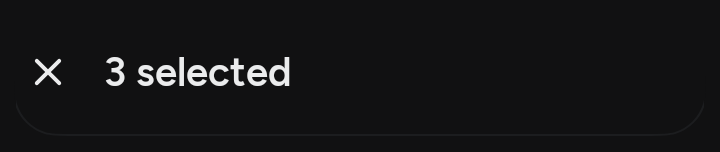
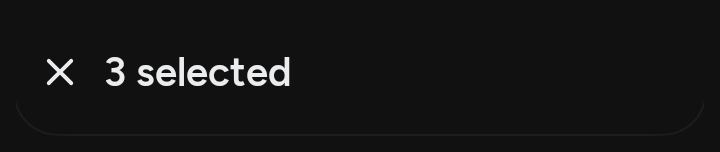
fix(panel): align header buttons (#200)
* fix(panel): line up the close button with the page inset

- Shift each navigation glyph so its ink starts where the chevron's does.
- Keep each icon's symbol, size, and ink start on PanelNavigationIcon.

* feat(panel): add a text action that ends at the page inset

- Add PanelTextAction for trailing panel actions such as Select all.
- Share the text button between it and SheetHeaderAction.

* feat(panel): let the control panel hold a minimum height

- Keep the panel at least minHeight tall until the list collapses it.
- Lets a page fill its pills' room while they are away.

* docs(changelog): note the panel alignment changes

- Record PanelTextAction, ContextPanel minHeight, and the icon offset.

* test(panel): record the moved close button

- Update the context_panel_close baseline for the ✕ offset.

* refactor(panel): move minHeight into PanelMotion

- Keep ContextPanel within the detekt parameter limit.
- Shorten the text action inset's doc line.

* refactor(panel): keep PanelMotion's content lambda last

- Put minHeight before expanded so callers keep the trailing lambda.

* revert(panel): drop the panel's minimum height

- Selection keeps its pill row instead, so nothing needs minHeight.

Changed region(s): [[0.0306, 0.3684, 0.1222, 0.5789]]

diff --git a/designsystem/src/commonMain/kotlin/com/otusfoss/core/designsystem/shared/overlays/components/SheetFrame.kt b/designsystem/src/commonMain/kotlin/com/otusfoss/core/designsystem/shared/overlays/components/SheetFrame.kt
@@ -1,26 +1,21 @@
 package com.otusfoss.core.designsystem.shared.overlays.components
 
 import androidx.compose.foundation.background
-import androidx.compose.foundation.clickable
-import androidx.compose.foundation.interaction.MutableInteractionSource
 import androidx.compose.foundation.layout.Arrangement
 import androidx.compose.foundation.layout.Box
 import androidx.compose.foundation.layout.ColumnScope
 import androidx.compose.foundation.layout.Row
 import androidx.compose.foundation.layout.fillMaxWidth
 import androidx.compose.foundation.layout.height
-import androidx.compose.foundation.layout.heightIn
 import androidx.compose.foundation.layout.padding
 import androidx.compose.foundation.layout.size
 import androidx.compose.foundation.shape.CircleShape
 import androidx.compose.material.Text
 import androidx.compose.runtime.Composable
-import androidx.compose.runtime.remember
 import androidx.compose.ui.Alignment
 import androidx.compose.ui.Modifier
 import androidx.compose.ui.draw.clip
 import androidx.compose.ui.graphics.Color
-import androidx.compose.ui.semantics.Role
 import androidx.compose.ui.semantics.heading
 import androidx.compose.ui.semantics.semantics
 import androidx.compose.ui.text.font.FontWeight
@@ -30,12 +25,9 @@ import com.otusfoss.core.designsystem.shared.controls.elements.ActionButton
 import com.otusfoss.core.designsystem.shared.controls.elements.IconButton
 import com.otusfoss.core.designsystem.shared.controls.elements.IconButtonLook
 import com.otusfoss.core.designsystem.shared.controls.elements.Symbol
+import com.otusfoss.core.designsystem.shared.controls.elements.TextAction
 import com.otusfoss.core.designsystem.shared.controls.elements.UiAction
-import com.otusfoss.core.designsystem.shared.controls.elements.controlPressFeedback
-import com.otusfoss.core.designsystem.shared.overlays.elements.sheetInset
 import com.otusfoss.core.designsystem.theme.colors.OtusColors
-import com.otusfoss.core.designsystem.theme.shapes.SmoothCornerShape
-import com.otusfoss.core.designsystem.theme.tokens.core.Sizes
 import com.otusfoss.core.designsystem.theme.tokens.core.Spacing
 import com.otusfoss.core.designsystem.theme.tokens.overlays.ChoiceSheetTokens
 import com.otusfoss.core.designsystem.theme.tokens.overlays.SheetTokens
@@ -136,15 +128,7 @@ public fun SheetHeaderAction(
     color: Color = OtusColors.text1,
     enabled: Boolean = true,
 ) {
-    val interactions = remember { MutableInteractionSource() }
-    Box(
-        modifier
-            .heightIn(min = Sizes.touchTarget)
-            .clickable(interactions, indication = null, enabled = enabled, role = Role.Button, onClick = onClick)
-            .controlPressFeedback(interactions, SmoothCornerShape(SheetTokens.rowRadius))
-            .sheetInset(),
-        contentAlignment = Alignment.Center,
-    ) { Text(label, color = if (enabled) color else OtusColors.text3, fontWeight = FontWeight.SemiBold) }
+    TextAction(label, onClick, SheetTokens.inset, modifier, color, enabled)
 }
 
 @Composable

diff --git a/designsystem/src/commonMain/kotlin/com/otusfoss/core/designsystem/shared/panels/elements/PanelNavigation.kt b/designsystem/src/commonMain/kotlin/com/otusfoss/core/designsystem/shared/panels/elements/PanelNavigation.kt
@@ -3,6 +3,7 @@ package com.otusfoss.core.designsystem.shared.panels.elements
 import androidx.compose.foundation.clickable
 import androidx.compose.foundation.interaction.MutableInteractionSource
 import androidx.compose.foundation.layout.Box
+import androidx.compose.foundation.layout.padding
 import androidx.compose.foundation.layout.size
 import androidx.compose.runtime.Composable
 import androidx.compose.runtime.remember
@@ -11,18 +12,14 @@ import androidx.compose.ui.Modifier
 import androidx.compose.ui.semantics.Role
 import androidx.compose.ui.semantics.contentDescription
 import androidx.compose.ui.semantics.semantics
-import com.otusfoss.core.designsystem.resources.Res
-import com.otusfoss.core.designsystem.resources.symbol_chevron_left
-import com.otusfoss.core.designsystem.resources.symbol_close
 import com.otusfoss.core.designsystem.shared.controls.elements.Symbol
 import com.otusfoss.core.designsystem.shared.controls.elements.controlPressFeedback
 import com.otusfoss.core.designsystem.theme.tokens.core.Sizes
-import com.otusfoss.core.designsystem.theme.tokens.layout.PanelTokens
 
 /**
- * The control panel's leading button. Its glyph sits at the start of the 48 dp target rather than
- * in its middle, so the chevron's stroke lines up with the page's start inset; the target's other
- * end may overlap the content after it.
+ * The control panel's leading button. Its glyph sits near the start of the 48 dp target rather
+ * than in its middle, so every [PanelNavigationIcon]'s ink lines up with the page's start inset;
+ * the target's other end may overlap the content after it.
  */
 @Composable
 public fun PanelNavigation(
@@ -39,16 +36,8 @@ public fun PanelNavigation(
             .clickable(interactions, indication = null, role = Role.Button, onClick = onClick),
         contentAlignment = Alignment.CenterStart,
     ) {
-        Box(Modifier.controlPressFeedback(interactions)) {
-            when (icon) {
-                PanelNavigationIcon.Back -> {
-                    Symbol(Res.drawable.symbol_chevron_left, mirrorInRtl = true, size = PanelTokens.navigationIconSize)
-                }
-
-                PanelNavigationIcon.Close -> {
-                    Symbol(Res.drawable.symbol_close, size = PanelTokens.closeIconSize)
-                }
-            }
+        Box(Modifier.padding(start = icon.offset).controlPressFeedback(interactions)) {
+            Symbol(icon.symbol, mirrorInRtl = icon == PanelNavigationIcon.Back, size = icon.size)
         }
     }
 }

diff --git a/designsystem/src/commonMain/kotlin/com/otusfoss/core/designsystem/shared/controls/elements/TextAction.kt b/designsystem/src/commonMain/kotlin/com/otusfoss/core/designsystem/shared/controls/elements/TextAction.kt
@@ -1,0 +1,44 @@
+package com.otusfoss.core.designsystem.shared.controls.elements
+
+import androidx.compose.foundation.clickable
+import androidx.compose.foundation.interaction.MutableInteractionSource
+import androidx.compose.foundation.layout.Box
+import androidx.compose.foundation.layout.heightIn
+import androidx.compose.foundation.layout.padding
+import androidx.compose.material.Text
+import androidx.compose.runtime.Composable
+import androidx.compose.runtime.remember
+import androidx.compose.ui.Alignment
+import androidx.compose.ui.Modifier
+import androidx.compose.ui.graphics.Color
+import androidx.compose.ui.semantics.Role
+import androidx.compose.ui.text.font.FontWeight
+import androidx.compose.ui.unit.Dp
+import com.otusfoss.core.designsystem.theme.colors.OtusColors
+import com.otusfoss.core.designsystem.theme.shapes.SmoothCornerShape
+import com.otusfoss.core.designsystem.theme.tokens.core.Sizes
+import com.otusfoss.core.designsystem.theme.tokens.overlays.SheetTokens
+
+/**
+ * A text button in a header, with a full touch target and the shared press feedback. The [inset]
+ * pads the label at both sides, so the press highlight surrounds it evenly.
+ */
+@Composable
+internal fun TextAction(
+    label: String,
+    onClick: () -> Unit,
+    inset: Dp,
+    modifier: Modifier = Modifier,
+    color: Color = OtusColors.text1,
+    enabled: Boolean = true,
+) {
+    val interactions = remember { MutableInteractionSource() }
+    Box(
+        modifier
+            .heightIn(min = Sizes.touchTarget)
+            .clickable(interactions, indication = null, enabled = enabled, role = Role.Button, onClick = onClick)
+            .controlPressFeedback(interactions, SmoothCornerShape(SheetTokens.rowRadius))
+            .padding(horizontal = inset),
+        contentAlignment = Alignment.Center,
+    ) { Text(label, color = if (enabled) color else OtusColors.text3, fontWeight = FontWeight.SemiBold) }
+}

diff --git a/designsystem/src/commonMain/kotlin/com/otusfoss/core/designsystem/shared/panels/elements/PanelNavigationIcon.kt b/designsystem/src/commonMain/kotlin/com/otusfoss/core/designsystem/shared/panels/elements/PanelNavigationIcon.kt
@@ -1,4 +1,30 @@
 package com.otusfoss.core.designsystem.shared.panels.elements
 
-/** What the header's leading button shows: the ‹ chevron, or ✕ to leave a mode such as selecting. */
-public enum class PanelNavigationIcon { Back, Close }
+import androidx.compose.ui.unit.Dp
+import com.otusfoss.core.designsystem.resources.Res
+import com.otusfoss.core.designsystem.resources.symbol_chevron_left
+import com.otusfoss.core.designsystem.resources.symbol_close
+import com.otusfoss.core.designsystem.theme.tokens.layout.PanelTokens
+import org.jetbrains.compose.resources.DrawableResource
+
+/**
+ * What the header's leading button shows: the ‹ chevron, or ✕ to leave a mode such as selecting.
+ * Each glyph draws at [size], and its ink starts [inkStart] of the way across its symbol, so a new
+ * glyph or a redrawn symbol must update that fraction to keep the button lined up.
+ */
+public enum class PanelNavigationIcon(
+    internal val symbol: DrawableResource,
+    internal val size: Dp,
+    private val inkStart: Float,
+) {
+    Back(Res.drawable.symbol_chevron_left, PanelTokens.navigationIconSize, inkStart = 337f / 960f),
+    Close(Res.drawable.symbol_close, PanelTokens.closeIconSize, inkStart = 217f / 960f),
+    ;
+
+    /** How far the glyph sits from the target's start, so its ink starts where the chevron's does. */
+    internal val offset: Dp
+        get() = Back.ink - ink
+
+    private val ink: Dp
+        get() = size * inkStart
+}

diff --git a/designsystem/src/commonMain/kotlin/com/otusfoss/core/designsystem/shared/panels/elements/PanelTextAction.kt b/designsystem/src/commonMain/kotlin/com/otusfoss/core/designsystem/shared/panels/elements/PanelTextAction.kt
@@ -1,0 +1,21 @@
+package com.otusfoss.core.designsystem.shared.panels.elements
+
+import androidx.compose.material.ProvideTextStyle
+import androidx.compose.runtime.Composable
+import androidx.compose.ui.Modifier
+import com.otusfoss.core.designsystem.shared.controls.elements.TextAction
+import com.otusfoss.core.designsystem.theme.tokens.layout.PanelTokens
+import com.otusfoss.core.designsystem.theme.typography.panelTextStyle
+
+/**
+ * A text button for a control panel's trailing action, such as "Select all". Its label ends at
+ * the page's side inset, level with the chevron's start and the rows' edges.
+ */
+@Composable
+public fun PanelTextAction(
+    label: String,
+    onClick: () -> Unit,
+    modifier: Modifier = Modifier,
+) {
+    ProvideTextStyle(panelTextStyle()) { TextAction(label, onClick, PanelTokens.textActionInset, modifier) }
+}

diff --git a/designsystem/src/commonMain/kotlin/com/otusfoss/core/designsystem/theme/tokens/layout/PanelTokens.kt b/designsystem/src/commonMain/kotlin/com/otusfoss/core/designsystem/theme/tokens/layout/PanelTokens.kt
@@ -53,6 +53,9 @@ public object PanelTokens {
     /** The header's inset from a screen edge that has no chevron. */
     public val headerInset: Dp = Spacing.gutter
 
+    /** Room at each side of a trailing text action's label, so it ends [headerInset] from the screen edge. */
+    public val textActionInset: Dp = headerInset - panelInset
+
     /** The gap between header content and the account stack. */
     public val headerGap: Dp = 6.dp
 

diff --git a/CHANGELOG.md b/CHANGELOG.md
@@ -2,6 +2,9 @@
 
 ## Unreleased
 
+- Design system: `PanelNavigation` lines up the ✕ with the chevron. `PanelTextAction` is a
+  trailing panel text button.
+
 - Accounts: `ConnectedAccount.addressesMissing` is true when the server could not be asked for the
   account's sending addresses. `AccountsState` then asks again after 5 s, 30 s, 2 min and 10 min,
   so one failed request at start no longer leaves the account without its own addresses until the
